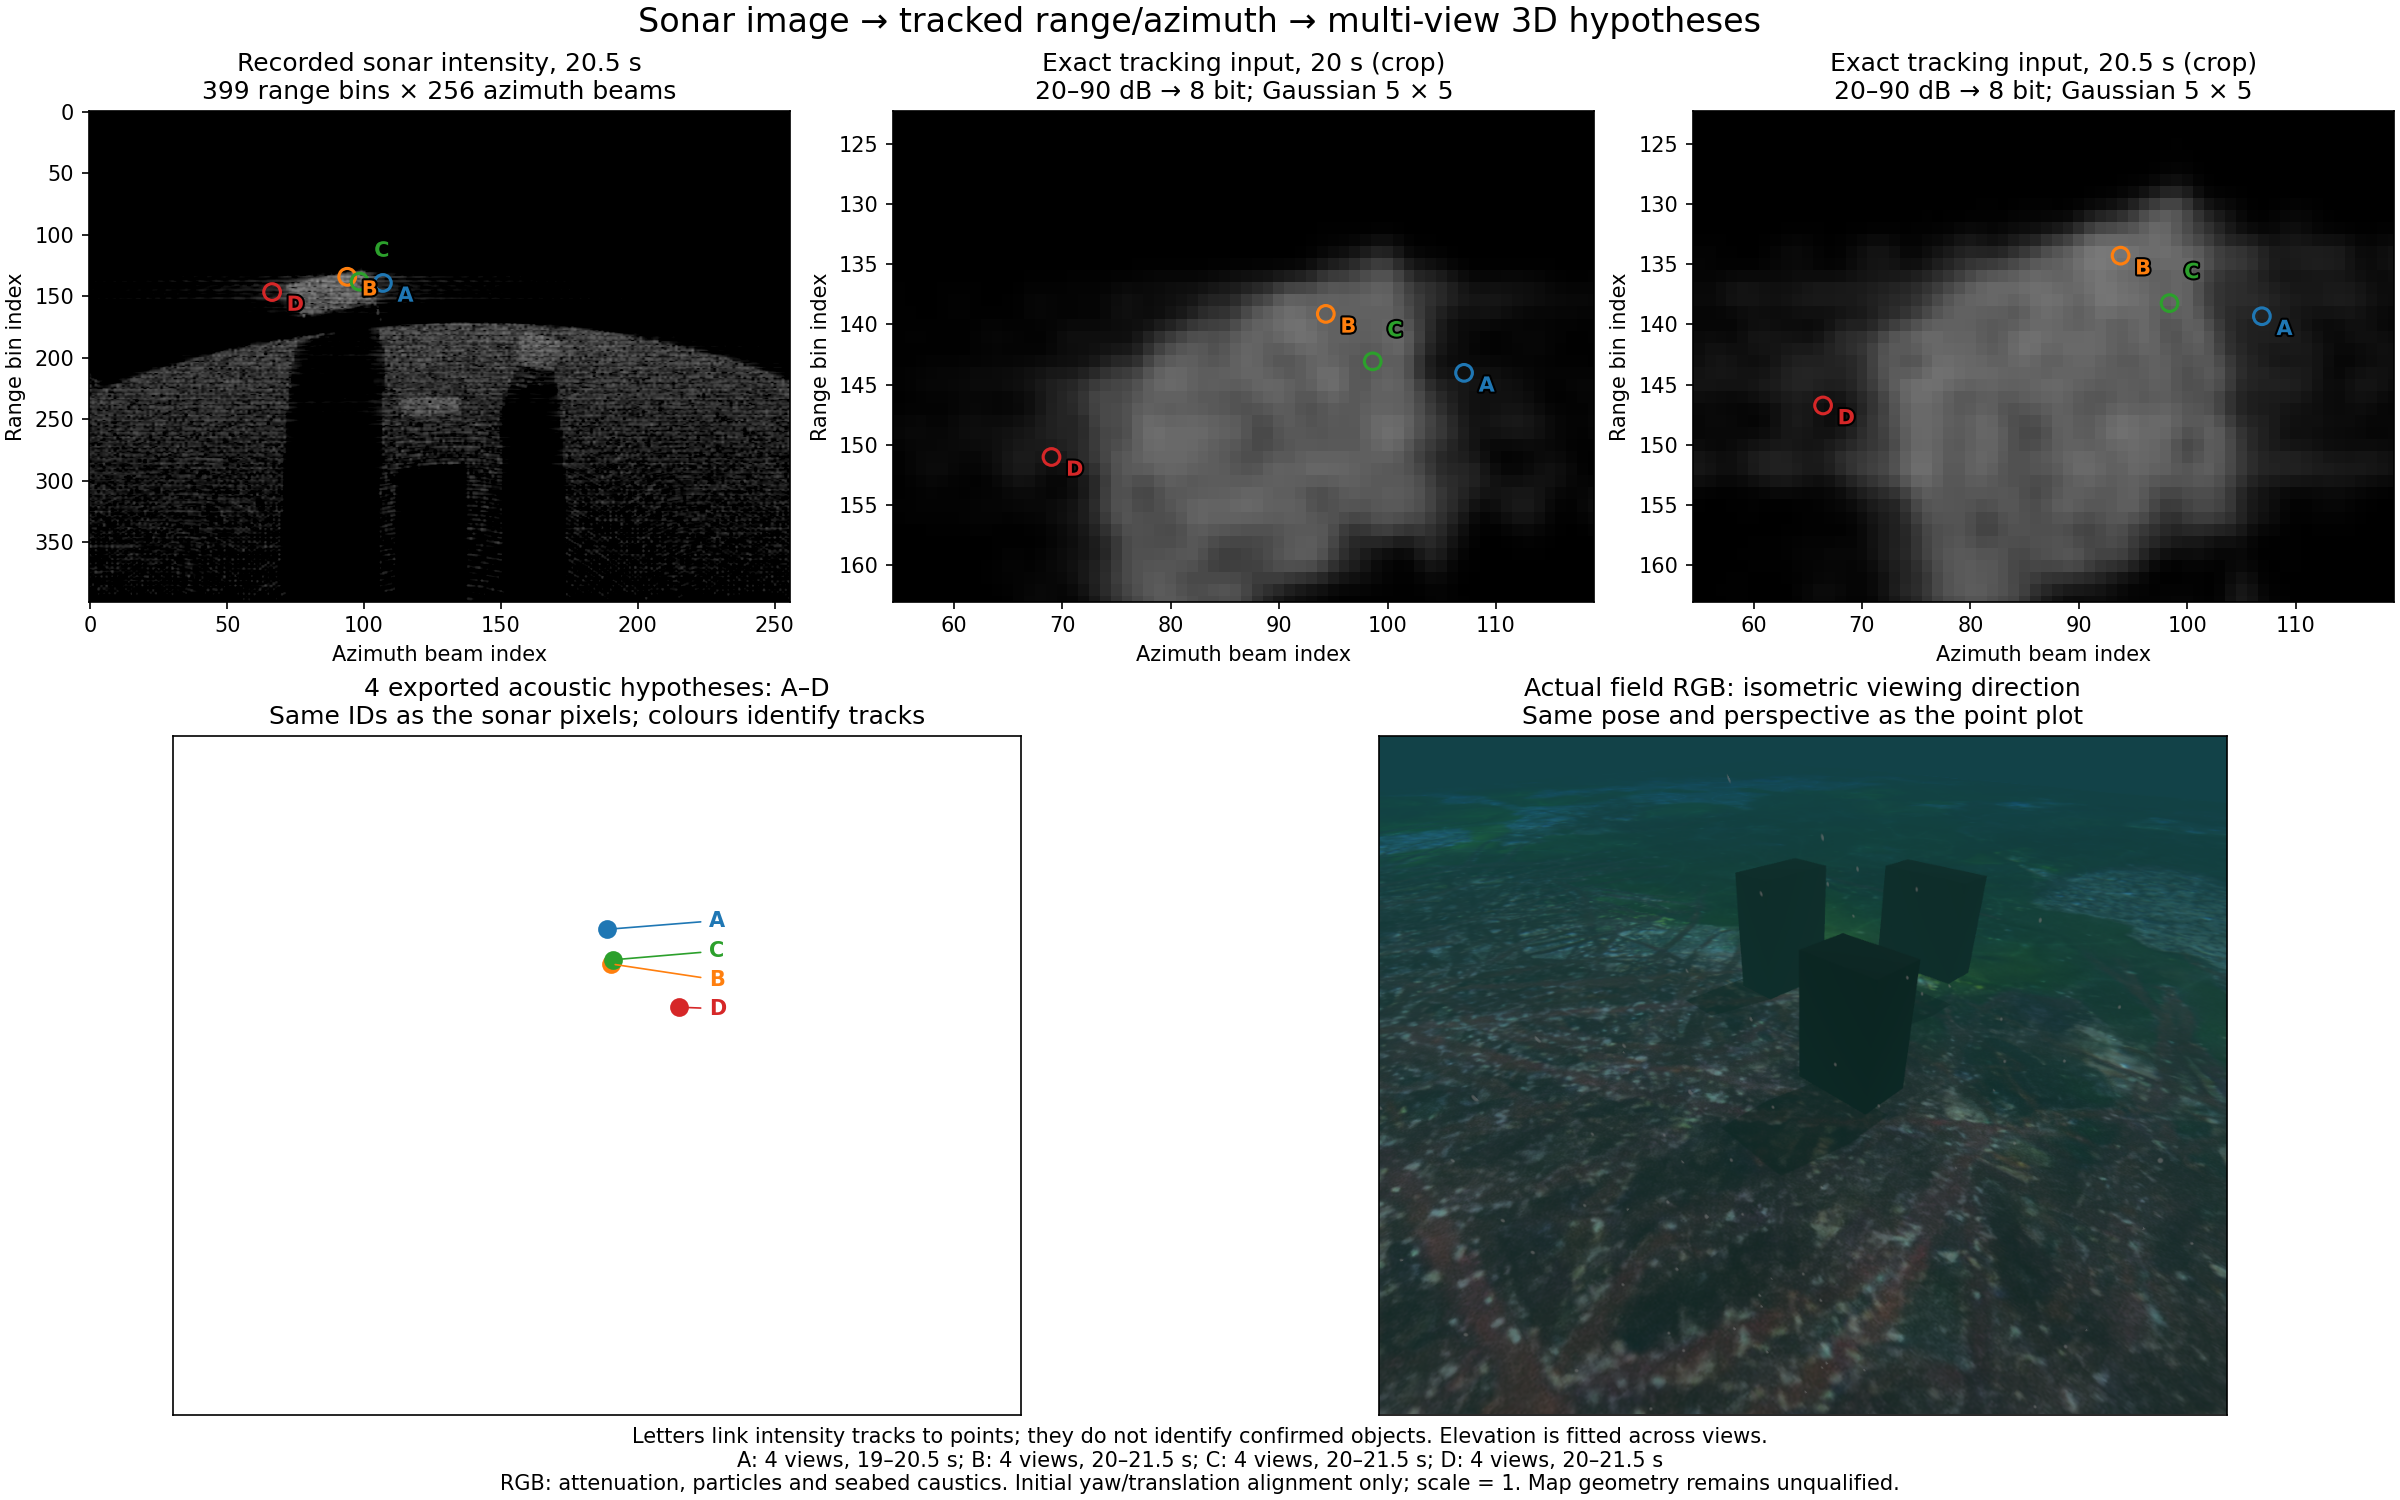
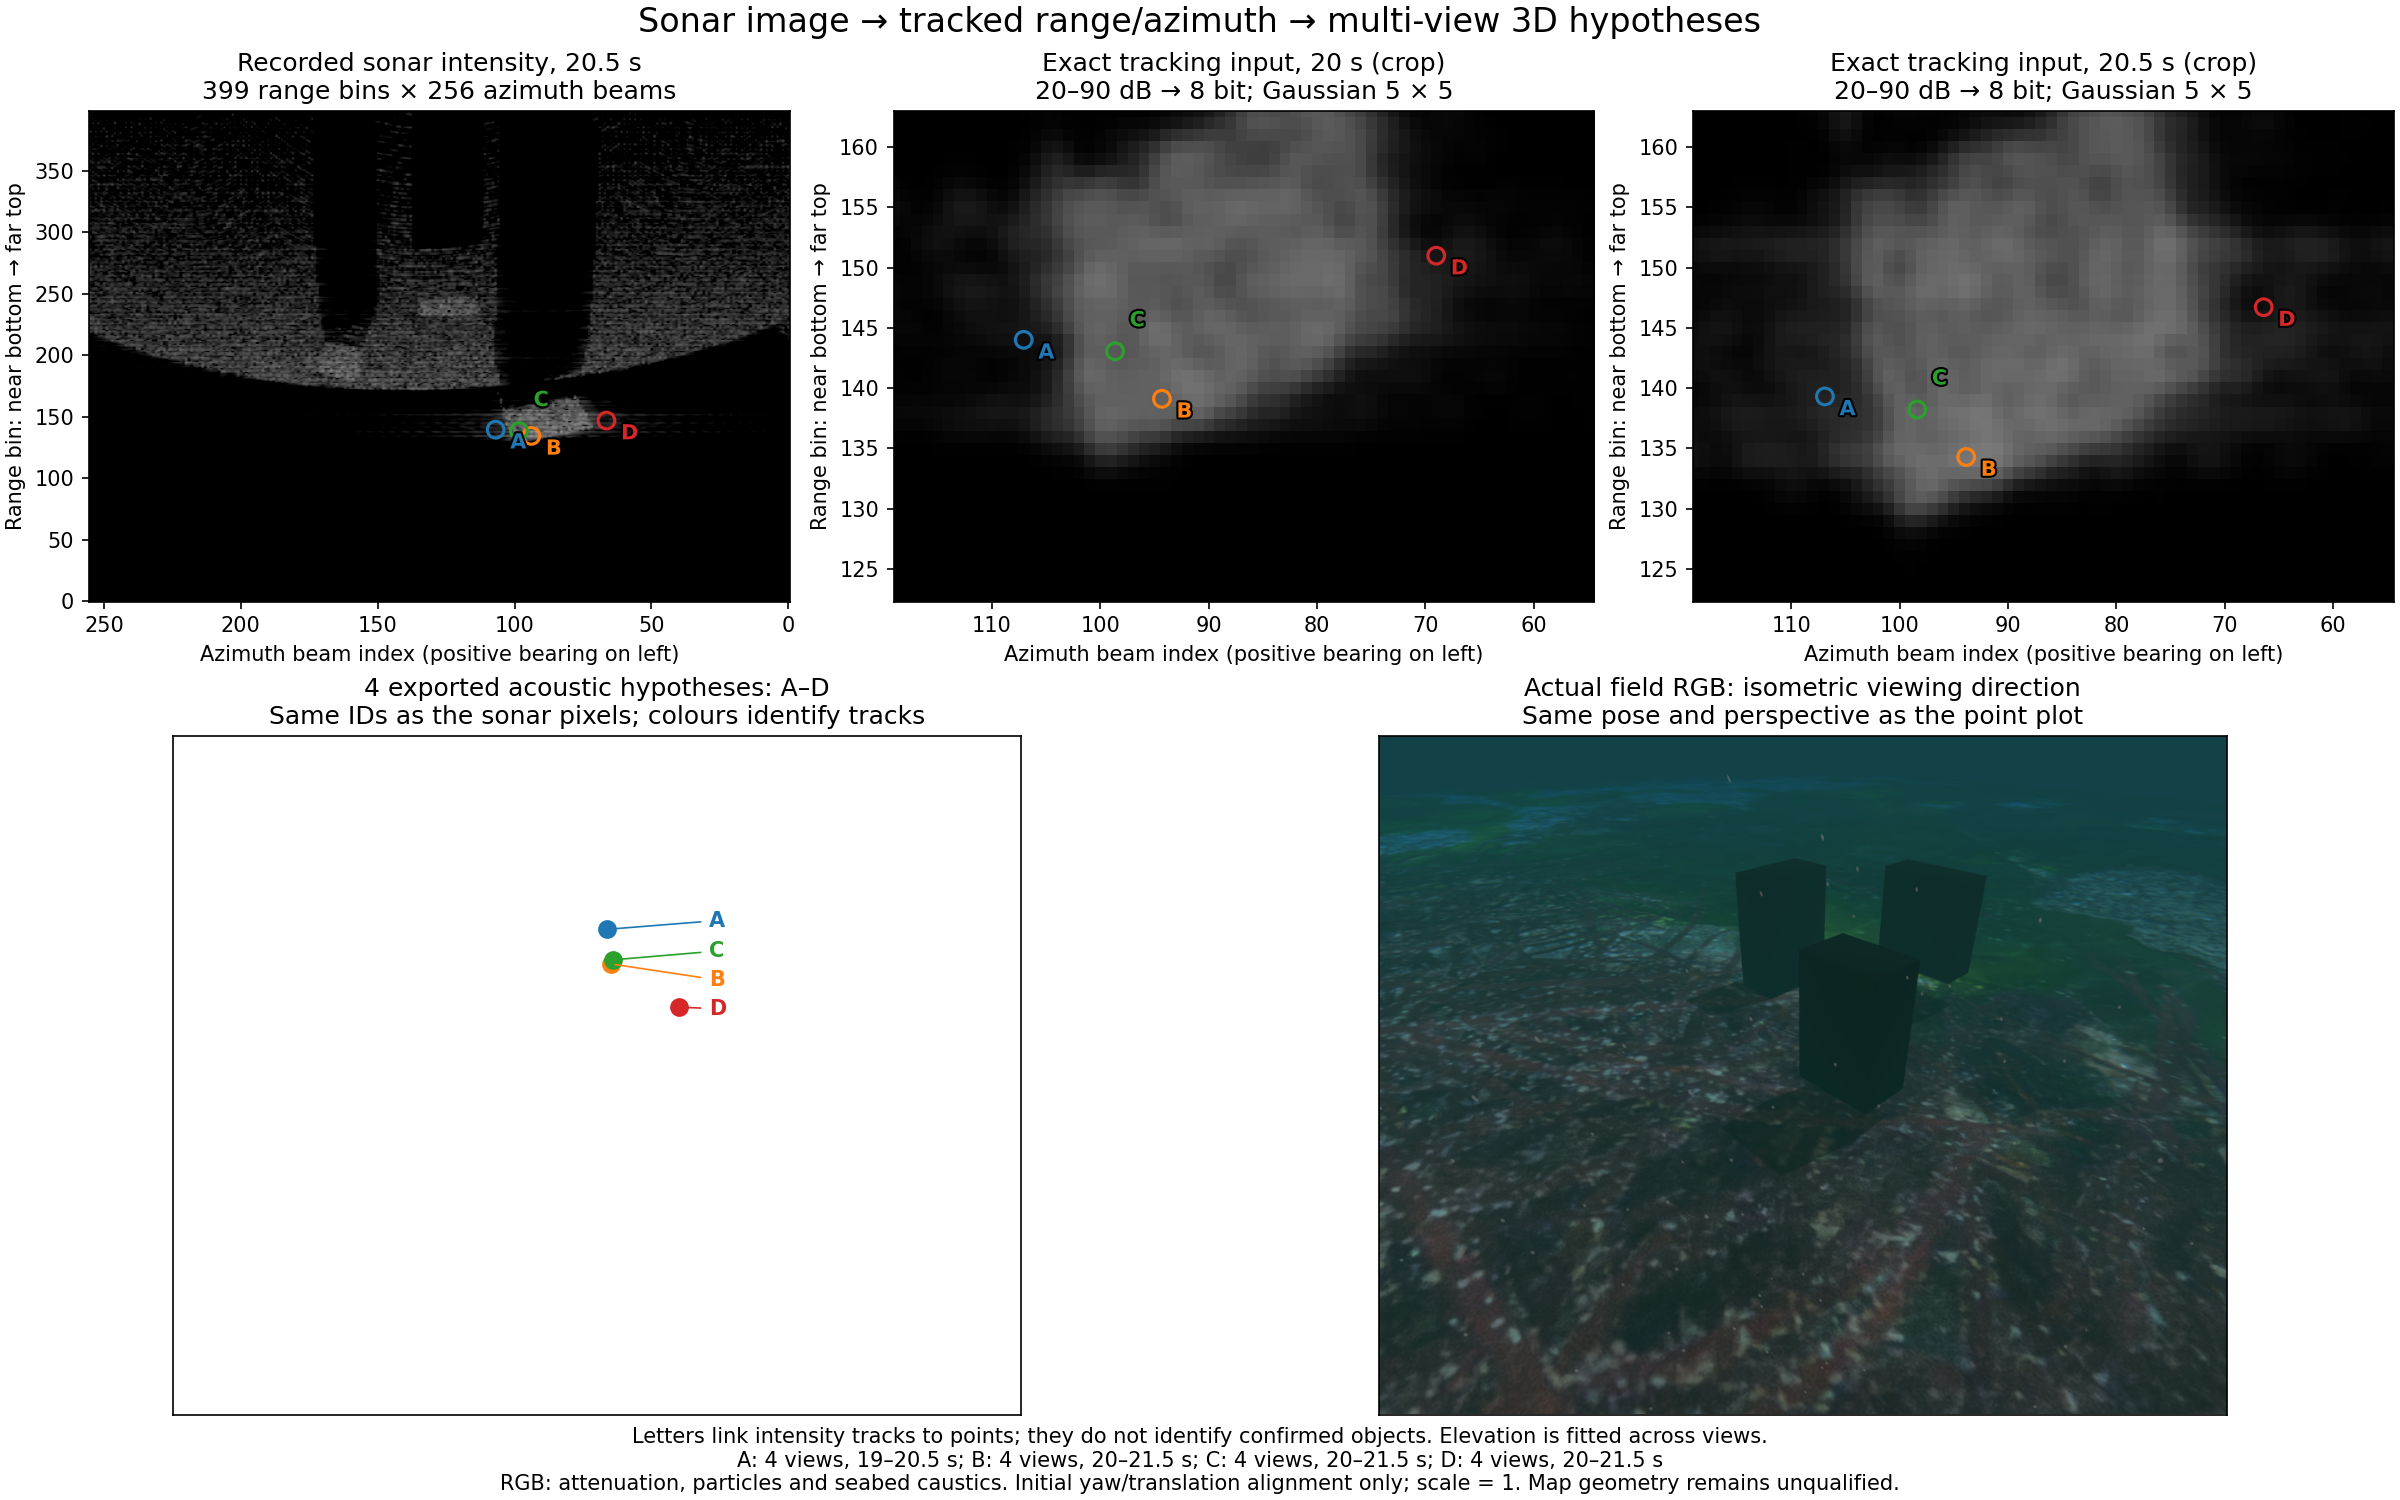
Document matched sonar views, sensor mounts and shadow reconstruction research

diff --git a/docs/diagnostics/sonar-surface-research.md b/docs/diagnostics/sonar-surface-research.md
@@ -1,0 +1,118 @@
+# Echo, shadow and ground-onset reconstruction
+
+This is a research direction, not an implemented or qualified mapping mode.
+The [measured example](measured-sonar.md) still uses intensity corners and flow.
+Its four exported hypotheses do not recover the physical box surfaces.
+
+## Findings from primary research
+
+- [Song and Choi, 2016](https://oak.go.kr/central/journallist/journaldetail.do?article_seq=20801)
+  detect object/shadow pairs relative to an estimated seabed intensity, then use
+  shadow length and a Lambertian reflection model to recover elevation. They
+  report underwater experiments. Their assumptions about diffuse reflection and
+  limited surface interference need testing in POSIM's scene.
+- [Westman, Gkioulekas and Kaess, IROS 2020](https://www.cs.cmu.edu/~kaess/pub/Westman20iros.pdf)
+  reconstruct particular boundary/specular points from the change in return
+  range as the sensor translates. They prefer translation along the sonar's
+  vertical axis. Section III-D explicitly warns that elevation-FOV boundaries
+  can create intensity discontinuities that produce false 3D points. Their
+  model assumes single-bounce returns; arbitrary bright corners do not qualify.
+- [Teixeira et al., IROS 2019](https://www.cs.cmu.edu/~kaess/pub/Teixeira19iros.pdf)
+  jointly model echo segmentation, vehicle poses and surface elements in factor
+  graphs, evaluated on ship-hull inspection data. This supports treating sonar
+  measurement uncertainty and surface geometry together; its hull assumptions
+  do not establish accuracy on arbitrary terrain.
+- [Xie et al., 2024](https://arxiv.org/html/2404.14819v1)
+  reconstruct a bathymetric height field from imaging-sonar intensity using
+  neural volume rendering. The paper requires accurate navigation and describes
+  the method as mostly offline; joint SLAM remains future work. It is an offline
+  comparison candidate, not the initial low-resource frontend.
+
+## Geometry to use
+
+For a horizontal seabed, sonar altitude `h`, downward centre angle `alpha` and
+vertical half-aperture `beta`, the first possible bottom intersection in the
+central azimuth plane is `r_near = h / sin(alpha + beta)`, provided that ray
+points down and the intersection is within range. This is a geometric prediction,
+not an intensity threshold or a measured object boundary. For nonzero azimuth,
+roll or sloped terrain, intersect each calibrated fan direction `u` with the
+local plane: `r = -(n·S + d) / (n·u)`, retaining only positive in-range solutions.
+Use estimated attitude and a local plane with uncertainty. One Ping return alone
+does not determine the plane normal. Pressure gives depth relative to water, not
+altitude above the seabed.
+
+A dark-to-bright transition near that prediction can support a ground-return
+classification. A closer object, weak reflectivity, gain changes, multipath or
+FOV clipping can also create such transitions. Keep ground entry separate from
+physical object edges. In the current example, the broad seabed onset and three
+dark trails are useful candidates; their visual appearance alone does not prove
+three correct object/shadow associations.
+
+For an ideal vertical occluder on flat ground, let `D` be the horizontal distance
+to its occluding top edge's ground projection, and `L` the horizontal ground
+shadow length. Similar triangles give `H = h L / (D + L)`. This independent
+geometric relation requires a visible shadow end, known altitude, and correct
+edge pairing. Sonar range-bin differences are slant distances, not `L`. If the
+shadow continues beyond the 10 m cap, retain a bound rather than inventing an
+endpoint. Sloping ground and overlapping occluders invalidate this simple form.
+Shadow boundaries move with viewpoint and must not be registered directly as
+fixed physical landmarks.
+
+## Recommended lightweight experiment
+
+1. Predict a band of possible ground-entry ranges from estimated IMU attitude,
+   calibrated sonar mount and a Ping-supported local surface, including uncertainty.
+2. Estimate range-dependent noise/background. Extract coherent echo regions,
+   following dark runs and reappearance of the background across adjacent beams.
+3. Track regions and geometric edges across views. Treat echo/shadow pairing as
+   a hypothesis and reject clipped or contradictory height estimates.
+4. Fit surface/occluder constraints over multiple estimated poses; preserve
+   elevation intervals and unknown occluded space until the data resolve them.
+   FOV-induced ground boundaries provide plane constraints, not fixed point IDs.
+5. Compare with the corner/flow baseline on the same recordings: physical-surface
+   distance, false obstacles, coverage, height error, repeatability and CPU/memory.
+   Trajectory error and point count alone cannot qualify the map.
+
+Include empty flat ground, slopes, three boxes, varied altitude, weak reflectors,
+overlapping shadows, range-clipped shadows and surface effects. Ground truth may
+score these tests but must not supply frontend geometry. Record whether each
+simulator effect is acoustic or optical; optical caustics are not acoustic echoes.
+No external implementation, dataset or figure is imported by this research note.
+
+## 한국어
+
+현재 예시는 강도 특징점과 광류를 사용합니다. 반사·그림자 방식은 연구 제안이며
+구현·검증 완료된 지도 모드가 아닙니다.
+
+Song·Choi(2016)는 해저 강도를 기준으로 물체와 그림자를 검출하고 그림자 길이와
+Lambert 반사 모델로 높이를 추정합니다. Westman 등(2020)은 센서 이동에 따른
+반사 거리의 변화로 특정 경계·정반사점을 복원합니다. 특히 수직 시야 끝이 만든
+강도 경계를 물체 경계로 오인하면 잘못된 3D 점이 생긴다고 설명합니다.
+Teixeira 등(2019)은 반사 분할·자세·표면을 함께 추정하지만 검증 대상은 선체입니다.
+Xie 등(2024)의 신경망 해저 복원은 정확한 항법과 주로 오프라인 처리를 전제로
+하므로 저사양 실시간 프런트엔드의 첫 선택으로 삼지 않습니다.
+
+평평한 해저의 중심 방위각에서 첫 교차 경사거리는
+`r_near = h / sin(alpha + beta)`로 예측할 수 있습니다. `h`는 해저 위 고도,
+`alpha`는 하향 중심각, `beta`는 수직 반시야각입니다. 기울어진 해저·차량 자세와
+다른 방위각은 보정된 광선과 국소 평면의 교차로 계산합니다. 단일 Ping 관측만으로
+평면 법선을 정할 수 없으며 압력 수심도 해저 위 고도와 다릅니다.
+
+예측 부근에서 어두움이 밝음으로 바뀌면 해저 반사의 시작을 뒷받침하지만,
+물체·반사율·이득·다중경로·시야 경계도 같은 변화를 만듭니다. 해저 시작점과
+실제 물체 모서리를 구분해야 합니다. 현재 영상의 넓은 해저 시작 경계와 세 개의
+어두운 띠는 후보이며, 눈으로 보인다는 사실만으로 대응 관계가 검증되지는 않습니다.
+
+평평한 해저와 수직 물체를 가정하면 `H = h L / (D + L)`입니다. `D`는 가리는
+상단 모서리의 해저 투영까지의 수평거리, `L`은 해저에서 잰 수평 그림자 길이입니다.
+거리 빈의 차이를 그대로 `L`로 쓸 수 없습니다. 그림자가 10 m 범위 밖까지
+이어지면 높이 범위만 남깁니다. 경사·중첩 가림은 단순식의 가정을 깨며,
+시점에 따라 움직이는 그림자 경계를 고정 랜드마크로 등록해서는 안 됩니다.
+
+권장 순서는 해저 시작 거리 범위 예측, 인접 빔의 반사·그림자 영역 검출,
+여러 시점의 영역·기하 경계 대응, 불확실성을 포함한 표면·가림 물체 추정입니다.
+가려진 공간은 미확인 상태로 보존합니다. 같은 기록에서 표면 거리·허위 장애물·
+복원 범위·높이 오차·반복성·CPU/메모리를 비교해야 하며 점 수나 위치 오차만으로
+통과시키지 않습니다. 평지·경사·상자·고도 변화·약한 반사·중첩 및 잘린 그림자·
+수면 효과를 시험하고 참값은 평가에만 사용합니다. 광학 집광무늬와 음향 반사도
+구분합니다. 이 문서는 외부 코드·데이터셋·그림을 포함하지 않습니다.

diff --git a/docs/diagnostics/measured-sonar.md b/docs/diagnostics/measured-sonar.md
@@ -181,3 +181,43 @@ RMSE 0.023528 m, 최대 오차 0.102329 m입니다. 두 위치 결과는 이 기
 사용합니다. 대응 그림의 색은 추적 ID이며 비교 그림의 높이 색은 Turbo입니다.
 RGB에는 수중 감쇠·입자·해저 집광무늬가 적용됩니다. 초기 방위각·위치만
 정렬하며 축척은 1입니다.
+
+
+## Sensor viewpoint and mount geometry / 센서 시점과 장착 방향
+
+![Matched sonar-view RGB and actual BlueROV sensor geometry](sonar-common-view.png)
+
+The upper RGB is an auxiliary Gazebo camera at the recorded sonar pose (20.5 s),
+with the same origin, rotation and 120° horizontal FOV. Its rectilinear image has
+98.2° vertical FOV; orange curves mark the sonar's ±10° elevation fan. Sonar rows
+are slant range, while RGB rows are elevation, so this is a geometric comparison,
+not pixel alignment. Positive azimuth is displayed on the left in both views. Sonar range increases
+upward: near at the bottom, far at the top.
+The lower pair shares an isometric camera pose and perspective. A–D keep the
+verified track identities; marker diameter is four times the earlier 4 pt² marker.
+
+The physical sonar mount is (+0.24, 0, −0.10) m with 20.1° downward pitch relative
+to the hull. The actual SLAM camera is at (−0.10, 0, 0) m, points 90° down, and has
+80.2° horizontal / 64.6° vertical FOV. Its downward orientation comes from the
+imported Orca5 model (`camera_link` pitch `@d90`). The overview includes the actual vehicle
+and projected viewing frusta. Static scene geometry and recorded body pose are
+preserved; optical phase is re-rendered with attenuation, particles, caustics and
+sea surface. Ground truth sets the illustration pose only; it does not enter the
+estimator. [Capture/projection evidence](sonar-common-view.json).
+
+위쪽 RGB는 20.5초의 소나와 위치·회전·수평 시야 120°가 같은 비교용
+Gazebo 렌더링입니다. RGB 수직 시야는 98.2°이며 주황색 곡선은 소나의
+수직 시야 ±10°입니다. 소나의 세로축은 경사거리, RGB의 세로축은 고도각이므로
+픽셀 일대일 대응이 아닙니다. 두 영상 모두 양의 방위각을 왼쪽에 표시하며 소나는 아래가 가까운 거리,
+위가 먼 거리입니다.
+아래 점군과 시험장 RGB는 등각 방향·원근 투영이 같습니다. A–D는 검증된
+추적 ID이며 점 지름은 기존 4 pt² 마커의 4배입니다.
+
+차량 좌표계에서 소나는 (+0.24, 0, −0.10) m에 장착되어 전방 아래 20.1°를
+봅니다. 실제 SLAM 카메라는 (−0.10, 0, 0) m에서 아래 90°를 보며 시야는
+수평 80.2°·수직 64.6°입니다. 하향 방향은 가져온 Orca5 원본 모델의
+`camera_link` pitch `@d90` 설정입니다. 개요에 실제 차량과 센서 시야를 표시합니다.
+정적 장면·차량 자세는 기록과 일치하며 수중 감쇠·입자·해저 집광무늬·수면은
+다시 렌더링됩니다. 참값 자세는 그림 제작에만 사용하며 추정기에 넣지 않습니다.
+
+[Echo, shadow and ground-onset research / 반사·그림자·해저 시작점 연구](sonar-surface-research.md).
